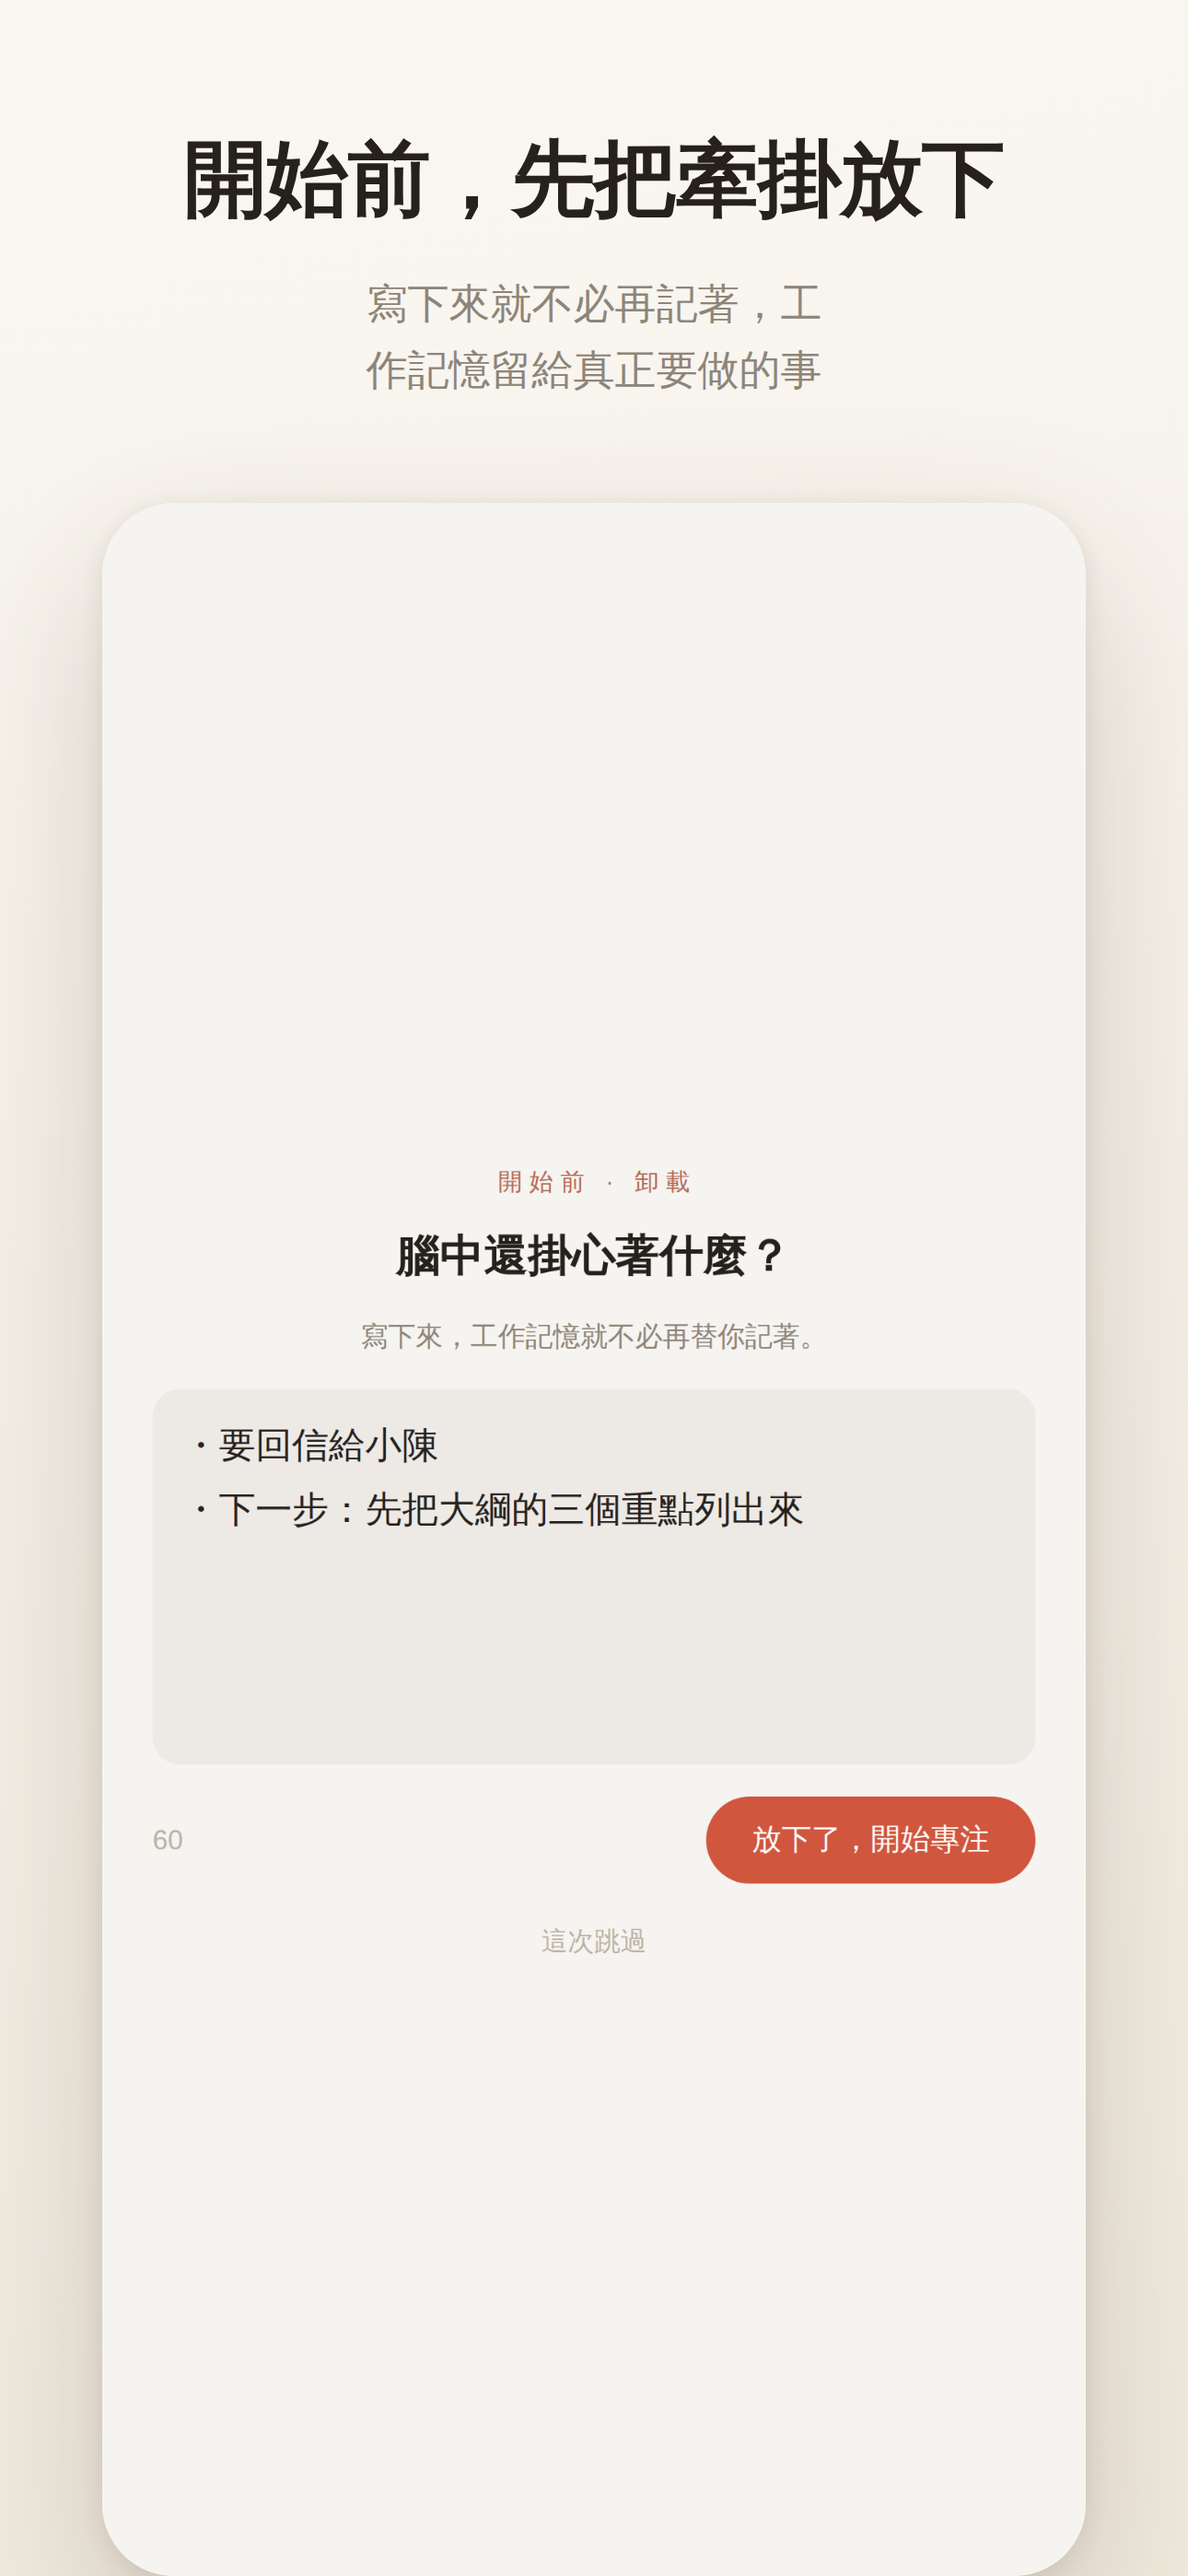
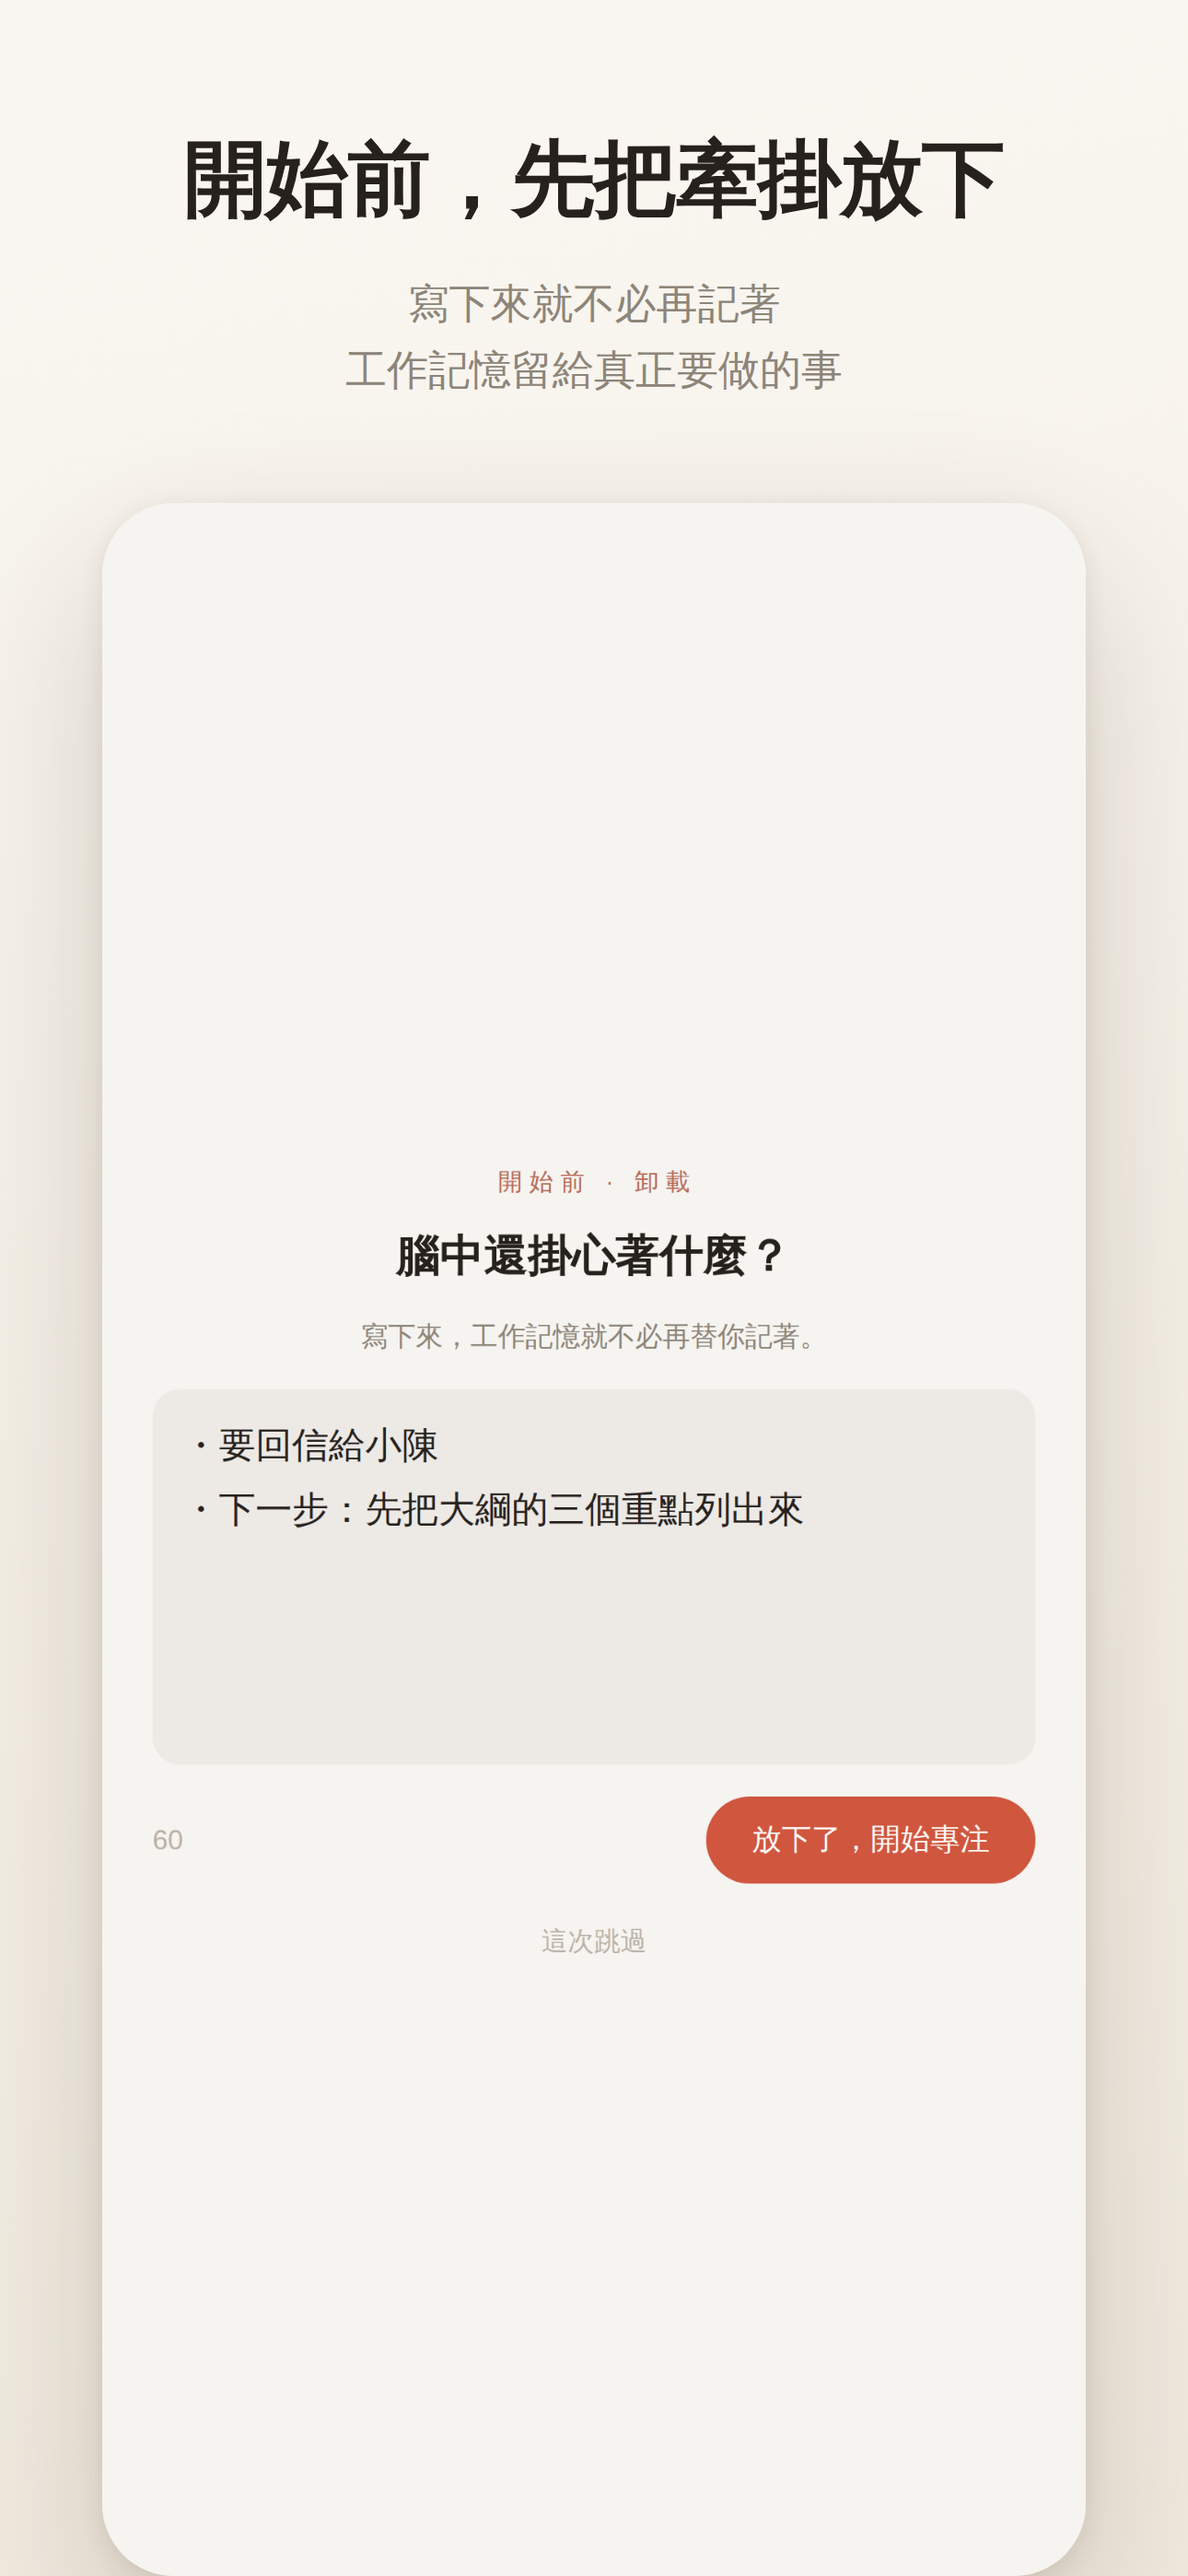
feat(audio): 暫時移除環境音層，音景剩專注音樂與和聲鋪底
依需求先把環境音（雨聲／海浪／棕噪音）拿掉：
- 移除 settings.ambience、layers.amb、buildAmbience()、noiseBuffer()
  與設定面板的環境音選擇列
- audioWanted()、syncAudio()、syncSheetUI() 與測試鉤子同步縮成兩層
- 耳機鍵在全部關閉時的預設改為「專注音樂 Alpha + 和聲鋪底」
  （原本會開環境音）

localStorage 裡舊的 ambience 選擇刻意保留不清除——設定是
{...DEFAULTS, ...stored} 合併而成，日後恢復功能可直接接回使用者原本的選擇。

同步更新 README、上架文案、隱私權政策，並重新產生 README 與商店截圖
（順帶帶進上一版的規劃圓點）。商店截圖的副標改用明確換行：中文沒有詞界，
瀏覽器會斷在「和聲鋪／底」這種地方。

Claude-Session: https://claude.ai/code/session_01A3tyPPSUm6Es4KqcjBUqgp

Changed region(s): [[0.3101, 0.0933, 0.7132, 0.1556]]

diff --git a/pomodoro/ui/app.js b/pomodoro/ui/app.js
@@ -22,7 +22,7 @@ const DEFAULTS = {
   focus: 25, short: 5, long: 15,
   autoBreak: true, autoFocus: false, sound: true, notify: true, pinned: false,
   warmup: true, restLock: true, cleanCut: true,
-  audio: 'off', ambience: 'off', pad: false, muted: false, volume: 35,
+  audio: 'off', pad: false, muted: false, volume: 35,
 };
 const settings = Object.assign({}, DEFAULTS, store.get('pomo.settings.v1', {}));
 const saveSettings = () => store.set('pomo.settings.v1', settings);
@@ -424,9 +424,9 @@ function chime(kind) {
   }
 }
 
-/* 三層可獨立開關：雙耳節拍 / 環境音 / 和聲鋪底 */
-const layers = { beat: null, amb: null, pad: null };
-const LAYER_VOL = { beat: 0.34, amb: 0.32, pad: 0.10 };
+/* 兩層可獨立開關：專注音樂 / 和聲鋪底 */
+const layers = { beat: null, pad: null };
+const LAYER_VOL = { beat: 0.34, pad: 0.10 };
 
 const BEAT_HZ = { beta: 18, alpha: 8, theta: 6 };
 const CARRIER = 220; // A3 載波，低頻聽感柔和
@@ -520,35 +520,6 @@ const CHORD = {
   rest:  [110.00, 164.81, 220.00, 277.18, 329.63],   // A2 E3 A3 C#4 E4 — A
 };
 
-/* 噪音樣本：4 秒 loop，首尾交叉淡化避免接縫 click */
-const noiseCache = {};
-function noiseBuffer(kind) {
-  if (noiseCache[kind]) return noiseCache[kind];
-  const ctx = audioCtx;
-  const len = Math.floor(ctx.sampleRate * 4);
-  const buf = ctx.createBuffer(1, len, ctx.sampleRate);
-  const d = buf.getChannelData(0);
-
-  if (kind === 'white') {
-    for (let i = 0; i < len; i++) d[i] = Math.random() * 2 - 1;
-  } else {
-    let last = 0; // 積分白噪音 → 棕噪音，能量集中在低頻
-    for (let i = 0; i < len; i++) {
-      last = (last + 0.02 * (Math.random() * 2 - 1)) / 1.02;
-      d[i] = last * 3.5;
-    }
-  }
-
-  const fade = Math.floor(ctx.sampleRate * 0.05);
-  for (let i = 0; i < fade; i++) {
-    const t = i / fade;
-    d[i] = d[i] * t + d[len - fade + i] * (1 - t);
-  }
-
-  noiseCache[kind] = buf;
-  return buf;
-}
-
 /* 合成雙耳節拍：音檔載不到時的後備（例如頁面沒有附上 audio/） */
 function attachSynthBeat(band, gain) {
   const ctx = audioCtx;
@@ -587,47 +558,6 @@ function buildBeat(band) {
 
   layer.dispose = (at) => { layer.loop?.stop(at); };
   return layer;
-}
-
-function buildAmbience(kind) {
-  const ctx = audioCtx;
-  const src = ctx.createBufferSource();
-  src.buffer = noiseBuffer(kind === 'rain' ? 'white' : 'brown');
-  src.loop = true;
-  const gain = ctx.createGain();
-  gain.gain.value = 0.0001;
-  const nodes = [src];
-
-  if (kind === 'rain') {
-    const bp = ctx.createBiquadFilter();
-    bp.type = 'bandpass'; bp.frequency.value = 1500; bp.Q.value = 0.5;
-    const hs = ctx.createBiquadFilter();
-    hs.type = 'highshelf'; hs.frequency.value = 4500; hs.gain.value = -7;
-    src.connect(bp).connect(hs).connect(gain);
-  } else if (kind === 'waves') {
-    const lp = ctx.createBiquadFilter();
-    lp.type = 'lowpass'; lp.frequency.value = 520; lp.Q.value = 0.4;
-    // 潮汐：獨立的調製節點，不去動被淡入淡出控制的 gain
-    const tide = ctx.createGain();
-    tide.gain.value = 0.62;
-    const lfo = ctx.createOscillator();
-    lfo.frequency.value = 0.07; // 約 14 秒一次起落
-    const cut = ctx.createGain(); cut.gain.value = 240;
-    const amp = ctx.createGain(); amp.gain.value = 0.34;
-    lfo.connect(cut).connect(lp.frequency);
-    lfo.connect(amp).connect(tide.gain);
-    lfo.start();
-    src.connect(lp).connect(tide).connect(gain);
-    nodes.push(lfo);
-  } else {
-    const lp = ctx.createBiquadFilter();
-    lp.type = 'lowpass'; lp.frequency.value = 1000;
-    src.connect(lp).connect(gain);
-  }
-
-  gain.connect(mix);
-  src.start();
-  return { gain, nodes };
 }
 
 function buildPad(mode) {
@@ -694,7 +624,7 @@ function syncLayer(name, key, build) {
   l.gain.gain.exponentialRampToValueAtTime(layerTarget(name), t + 1.4);
 }
 
-const audioWanted = () => settings.audio !== 'off' || settings.ambience !== 'off' || settings.pad;
+const audioWanted = () => settings.audio !== 'off' || settings.pad;
 
 /* 專注播選定頻段；休息自動切 Alpha 與大調和聲（利於 DMN 恢復） */
 function syncAudio() {
@@ -703,7 +633,6 @@ function syncAudio() {
   const resting = state.mode !== 'focus';
 
   syncLayer('beat', live && settings.audio !== 'off' ? (resting ? 'alpha' : settings.audio) : null, buildBeat);
-  syncLayer('amb', live && settings.ambience !== 'off' ? settings.ambience : null, buildAmbience);
   syncLayer('pad', live && settings.pad ? (resting ? 'rest' : 'focus') : null, buildPad);
   updateAudioBtn();
 }
@@ -733,7 +662,7 @@ function setVolume(v) {
 function toggleMute() {
   if (!audioWanted()) {
     settings.audio = 'alpha';
-    settings.ambience = 'rain';
+    settings.pad = true;
     settings.muted = false;
   } else {
     settings.muted = !settings.muted;
@@ -1092,7 +1021,7 @@ function syncSheetUI() {
   });
   for (const [id, key] of TOGGLES) $(`#${id}`).checked = settings[key];
   $('#optVolume').value = settings.volume;
-  for (const [id, key] of [['beatSeg', 'audio'], ['ambSeg', 'ambience']]) {
+  for (const [id, key] of [['beatSeg', 'audio']]) {
     for (const b of document.querySelectorAll(`#${id} .seg-btn`)) {
       const on = b.dataset.val === settings[key];
       b.classList.toggle('on', on);
@@ -1140,7 +1069,7 @@ for (const [id, key] of TOGGLES) {
   });
 }
 
-for (const [id, key] of [['beatSeg', 'audio'], ['ambSeg', 'ambience']]) {
+for (const [id, key] of [['beatSeg', 'audio']]) {
   $(`#${id}`).addEventListener('click', (e) => {
     const btn = e.target.closest('.seg-btn');
     if (!btn) return;
@@ -1254,7 +1183,6 @@ window.__pomo = {
     ctx: audioCtx?.state || null,
     beat: layers.beat?.key || null,
     beatMode: layers.beat?.mode || 'loading',
-    amb: layers.amb?.key || null,
     pad: layers.pad?.key || null,
   }),
 };

diff --git a/pomodoro/ui/index.html b/pomodoro/ui/index.html
@@ -263,7 +263,7 @@
       </label>
 
       <div class="row-sep"></div>
-      <p class="sheet-group">專注音景<small class="group-note">三層可疊加，A 鍵一鍵靜音</small></p>
+      <p class="sheet-group">專注音景<small class="group-note">兩層可疊加，A 鍵一鍵靜音</small></p>
 
       <p class="seg-label">專注音樂<small>會自動循環，播完接回開頭</small></p>
       <div class="seg" id="beatSeg" role="radiogroup" aria-label="專注音樂">
@@ -271,14 +271,6 @@
         <button class="seg-btn" data-val="beta" role="radio" aria-checked="false">Beta<small>分析</small></button>
         <button class="seg-btn" data-val="alpha" role="radio" aria-checked="false">Alpha<small>吸收</small></button>
         <button class="seg-btn" data-val="theta" role="radio" aria-checked="false">Theta<small>發散</small></button>
-      </div>
-
-      <p class="seg-label">環境音<small>遮蔽環境雜訊</small></p>
-      <div class="seg" id="ambSeg" role="radiogroup" aria-label="環境音">
-        <button class="seg-btn on" data-val="off" role="radio" aria-checked="true">關閉</button>
-        <button class="seg-btn" data-val="rain" role="radio" aria-checked="false">雨聲</button>
-        <button class="seg-btn" data-val="waves" role="radio" aria-checked="false">海浪</button>
-        <button class="seg-btn" data-val="brown" role="radio" aria-checked="false">棕噪音</button>
       </div>
 
       <label class="row switch-row">

diff --git a/pomodoro/ui/privacy.html b/pomodoro/ui/privacy.html
@@ -93,7 +93,7 @@
   <h2>網路連線</h2>
   <p>
     App 運作完全不需要網路。它不會發出任何網路請求，也沒有內建任何第三方
-    SDK、分析套件或廣告服務。專注音樂已內建於 App 中，環境音與和聲則在裝置上
+    SDK、分析套件或廣告服務。專注音樂已內建於 App 中，和聲鋪底則在裝置上
     即時合成，都不需要連網下載。
   </p>
 
@@ -145,7 +145,7 @@
     <p>
       The app works fully offline and makes no network requests. It contains no
       third-party SDKs, analytics or ad services. Music is bundled with the app and
-      ambience is synthesised on the device; nothing is downloaded at runtime.
+      the harmonic bed is synthesised on the device; nothing is downloaded at runtime.
     </p>
 
     <h2>Permissions</h2>

diff --git a/pomodoro/scripts/store/shot-frame.html b/pomodoro/scripts/store/shot-frame.html
@@ -10,7 +10,9 @@
     padding: 46px 30px 0;
   }
   h2 { font-size: 30px; font-weight: 600; letter-spacing: -.01em; color: #26211C; text-align: center; line-height: 1.35; text-wrap: balance; }
-  p { font-size: 15px; line-height: 1.65; color: #8D8579; text-align: center; margin-top: 12px; max-width: 24ch; text-wrap: balance; }
+  /* 中文沒有詞界，瀏覽器會在任意字之間斷行（「和聲鋪／底」）。
+     改由文案自己用 \n 指定斷點 */
+  p { font-size: 15px; line-height: 1.65; color: #8D8579; text-align: center; margin-top: 12px; max-width: 26ch; white-space: pre-line; }
   .shot { margin-top: 34px; width: 356px; border-radius: 26px; overflow: hidden;
           box-shadow: 0 24px 60px rgba(70,46,28,.20), 0 2px 8px rgba(70,46,28,.10); }
   .shot img { width: 100%; display: block; }

diff --git a/pomodoro/README.md b/pomodoro/README.md
@@ -28,7 +28,7 @@
 | **明確的任務終點**<br>大腦需要「任務結束」訊號，否則背景持續耗運算資源 | **乾淨切斷（Clean Cut）**：每顆蕃茄結束時寫一句「下次從哪裡接續」，存在該任務底下 |
 | **超日節律與腺苷代謝**<br>神經元活躍累積腺苷 → 疲勞；休息才能清除並重送葡萄糖 | **蕃茄鐘循環**：25 / 5，每 4 輪長休息 15 分（皆可調） |
 | **DMN 與 Alpha 波恢復**<br>休息必須「低認知負荷」才會切到預設模式網絡；滑手機等於沒休息 | **休息鎖定**：休息期間全屏呼吸引導（吸 4s → 屏 2s → 吐 6s），擋住閱讀與操作介面 |
-| **神經相位鎖定**<br>大腦振盪會與外部節奏同步；有歌詞的音樂反而搶走專注資源 | **三層音景**（可疊加、各自開關）：<br>① **專注音樂** — Beta 分析／Alpha 吸收／Theta 發散三首樂曲，自動無縫循環（音檔缺席時退回合成的雙耳節拍）<br>② **環境音** — 雨聲／海浪／棕噪音，遮蔽環境雜訊<br>③ **和聲鋪底** — 無旋律的 ambient 織體，專注時小調、休息時轉大調<br>休息時音樂自動切 Alpha |
+| **神經相位鎖定**<br>大腦振盪會與外部節奏同步；有歌詞的音樂反而搶走專注資源 | **兩層音景**（可疊加、各自開關）：<br>① **專注音樂** — Beta 分析／Alpha 吸收／Theta 發散三首樂曲，自動無縫循環（音檔缺席時退回合成的雙耳節拍）<br>② **和聲鋪底** — 無旋律的 ambient 織體，專注時小調、休息時轉大調<br>休息時音樂自動切 Alpha |
 | **一次只扛一件事**<br>工作記憶容量有限 | **待辦事項**：設定「本回合目標」顯示在計時器上方，完成的蕃茄自動記在該任務身上 |
 | **先估再做**<br>估計與實際的落差是最可靠的自我校準訊號 | **規劃顆數**：每件事可規劃 1–8 顆蕃茄，圓點實心＝已完成、空心＝還欠；做超過會標出來。清單頂端把還欠的顆數換算成小時，避免一天排進做不完的計畫 |
 
@@ -43,7 +43,7 @@
 - **規劃顆數** — 點第幾個圓點就是規劃幾顆蕃茄；計時器上方即時顯示「已完成／規劃」，休息畫面告訴你這件事還差幾顆
 - **思緒卸載盒** — 開始前清空工作記憶，內容存在本機可回顧
 - **休息鎖定 + 呼吸引導** — 低認知負荷的 DMN 恢復畫面
-- **三層音景** — 專注音樂（Beta 分析／Alpha 吸收／Theta 發散三首樂曲，自動無縫循環）＋ 環境音（雨聲／海浪／棕噪音）＋ ambient 和聲鋪底，可任意疊加，`A` 鍵一鍵靜音
+- **兩層音景** — 專注音樂（Beta 分析／Alpha 吸收／Theta 發散三首樂曲，自動無縫循環）＋ ambient 和聲鋪底，可任意疊加，`A` 鍵一鍵靜音
 - **選單列即時倒數**（macOS App）— 視窗關掉照樣跑，menu bar 直接操作
 - **完成通知＋提示音** — 柔和雙音鐘聲，可獨立開關
 - **置頂小視窗**（macOS App）— 釘在所有視窗最上層
@@ -160,7 +160,6 @@ pomodoro/
 
 - **計時用時間戳而非累加**，電腦休眠喚醒後不會漂移
 - **雙耳節拍**：`ChannelMerger` 左右耳各一個 `OscillatorNode`，差頻即腦波頻率
-- **環境音**：4 秒噪音 buffer 循環播放（首尾交叉淡化消除接縫），白噪音經 bandpass 成雨聲、棕噪音（積分白噪音）經 lowpass 成海浪，海浪另有 0.07 Hz LFO 同時推動截止頻率與音量做出潮汐起落
 - **和聲鋪底**：每個和弦音兩支微失諧（±4 cents）振盪器產生自然 chorus，低通截止由 0.045 Hz LFO 緩慢推動形成呼吸感
 - **音層切換**：舊層淡出與新層淡入重疊即為 crossfade；音量以 `setTargetAtTime` 平滑跟隨
 - **音樂的無縫循環**：三首曲子只有 3–4 分鐘，25 分鐘的專注要循環 6–8 次。素材本身有淡入淡出

diff --git a/pomodoro/docs/music-prompts.md b/pomodoro/docs/music-prompts.md
@@ -134,7 +134,7 @@ seamless loop, five minute rest music
    ```
    2 分鐘的檔案約 1.8 MB，四首約 7 MB
 3. 我會把 `buildPad()` 那層換成 `AudioBufferSourceNode` 播放音檔並 `loop = true`，
-   雙耳節拍與環境音維持合成（那兩層合成的效果本來就夠好，且能無限循環不佔空間）
+   雙耳節拍與和聲鋪底維持合成（合成的效果本來就夠好，且能無限循環不佔空間）
 4. 音檔層與合成層共用同一組淡入淡出與音量控制，切換模式時一樣 crossfade
 
 **保留合成版作為 fallback**：音檔載入失敗或使用者關閉時，自動退回目前的合成和聲，
